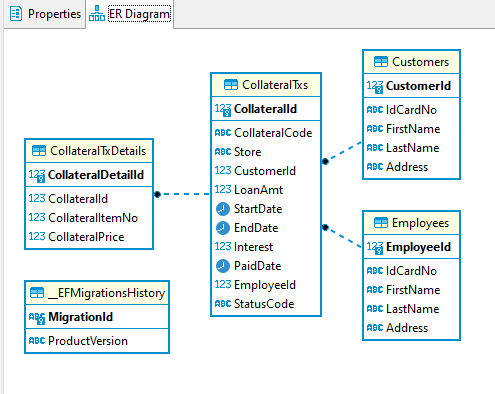
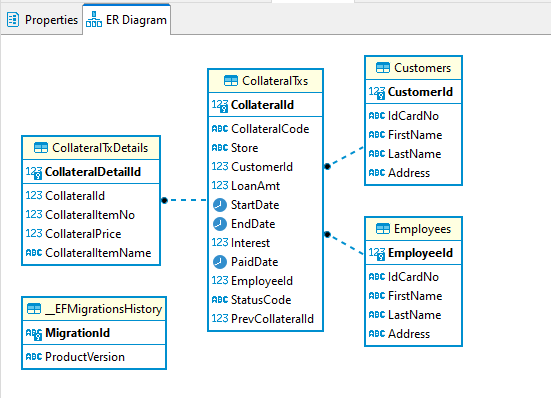
feat(pawn): update api pawn /rollover / redeem

Changed region(s): [[0.0303, 0.1218, 0.9394, 0.9442], [0.0, 0.0, 1.0, 0.0914]]

diff --git a/boj/bojpawnapi/Service/CollateralService.cs b/boj/bojpawnapi/Service/CollateralService.cs
@@ -13,7 +13,7 @@ namespace bojpawnapi.Service
         private readonly string STATUS_PAWN = "PAWN";
         private readonly string STATUS_ROLL = "ROLL_PAWN";   //ต่อดอก
         private readonly string STATUS_REDEEM = "REDEEM";   //ไถ่ถอน
-        private readonly string STATUS_DROP = "DROP";   //หลุดจำนำ
+        private readonly string STATUS_DROP = "DROP";       //หลุดจำนำ-อันนี จริงๆไม่จำเป็นดูสถานะ PAWN ที่ EndDate น้อยกว่าวันปัจจุบันแทนได้
 
         private readonly decimal INTERESTRATE = 3.0M;
 
@@ -68,7 +68,7 @@ namespace bojpawnapi.Service
         public async Task<CollateralTxDTO> AddCollateralTxAsync(CollateralTxDTO pCollateralPayload)
         {
             var CollateralTxEntities = _mapper.Map<CollateralTxEntities>(pCollateralPayload);
-
+            
             _context.CollateralTxs.Add(CollateralTxEntities);
             var result = await _context.SaveChangesAsync();
             if (result > 0)
@@ -92,33 +92,51 @@ namespace bojpawnapi.Service
 
         public async Task<CollateralTxDTO> AddRolloverCollateralTxAsync(CollateralTxDTO pCollateralPayload)
         {
-            try
+            using (var transaction = _context.Database.BeginTransaction())
             {
-                int OldRefId = pCollateralPayload.CollateralId;
-                //ปิดสัญญาเดิม
-                pCollateralPayload.StatusCode = STATUS_ROLL;
-                var result = await UpdateCollateralTxAsync(pCollateralPayload);
-                if (result)
+                try
                 {
-                    //สร้างสัญญาใหม่
-                    CollateralTxDTO newPawn = _mapper.Map<CollateralTxDTO>(pCollateralPayload);
-                    newPawn.PrevCollateralId = OldRefId;
-                    newPawn.CollateralCode = GetCollateralCode();
-                    newPawn.StatusCode = STATUS_PAWN;
-                    newPawn.Interest = CalcInterestRate(pCollateralPayload.LoanAmt, INTERESTRATE);
+                    int OldRefId = pCollateralPayload.CollateralId;
+                    //ปิดสัญญาเดิม
+                    pCollateralPayload.StatusCode = STATUS_ROLL;
+                    var result = await UpdateCollateralTxAsync(pCollateralPayload);
+                    if (result)
+                    {
+                        //สร้างสัญญาใหม่
+                        CollateralTxDTO newPawn = _mapper.Map<CollateralTxDTO>(pCollateralPayload);
+                        newPawn = ResetPawnId(newPawn);
+                        newPawn.PrevCollateralId = OldRefId;
+                        newPawn.CollateralCode = GetCollateralCode();
+                        newPawn.StatusCode = STATUS_PAWN;
+                        newPawn.Interest = CalcInterestRate(pCollateralPayload.LoanAmt, INTERESTRATE);
 
-                    return await AddCollateralTxAsync(newPawn);
+                        CollateralTxDTO newPawnResult = await AddCollateralTxAsync(newPawn);
+                        transaction.Commit();
+                        return newPawnResult;
+                    }
+                    else
+                    {
+                        throw new Exception();
+                    }
                 }
-                else
+                catch(Exception ex)
                 {
-                    throw new Exception();
+                    transaction.Rollback();
+                    //Someone help me
+                    throw ex;
                 }
             }
-            catch(Exception ex)
+        }
+
+        public CollateralTxDTO ResetPawnId(CollateralTxDTO pSource)
+        {
+            pSource.CollateralId = 0;
+            foreach (CollateralTxDetailDTO item in pSource.CollateralDetaills)
             {
-                //Someone help me
-                throw ex;
+                item.CollateralDetailId = 0;
+                item.CollateralId = 0;
             }
+            return pSource;
         }
 
         public async Task<bool> AddRedeemCollateralTxAsync(CollateralTxDTO pCollateralPayload)

diff --git a/boj/bojpawnapi/Migrations/20231127204147_collateralItemName.Designer.cs b/boj/bojpawnapi/Migrations/20231127204147_collateralItemName.Designer.cs
@@ -2,6 +2,7 @@
 using System;
 using Microsoft.EntityFrameworkCore;
 using Microsoft.EntityFrameworkCore.Infrastructure;
+using Microsoft.EntityFrameworkCore.Migrations;
 using Microsoft.EntityFrameworkCore.Storage.ValueConversion;
 using Npgsql.EntityFrameworkCore.PostgreSQL.Metadata;
 using bojpawnapi.DataAccess;
@@ -11,9 +12,11 @@ using bojpawnapi.DataAccess;
 namespace bojpawnapi.Migrations
 {
     [DbContext(typeof(PawnDBContext))]
-    partial class PawnDBContextModelSnapshot : ModelSnapshot
+    [Migration("20231127204147_collateralItemName")]
+    partial class collateralItemName
     {
-        protected override void BuildModel(ModelBuilder modelBuilder)
+        /// <inheritdoc />
+        protected override void BuildTargetModel(ModelBuilder modelBuilder)
         {
 #pragma warning disable 612, 618
             modelBuilder

diff --git a/boj/bojpawnapi/Migrations/20231127204147_collateralItemName.cs b/boj/bojpawnapi/Migrations/20231127204147_collateralItemName.cs
@@ -1,0 +1,29 @@
+using Microsoft.EntityFrameworkCore.Migrations;
+
+#nullable disable
+
+namespace bojpawnapi.Migrations
+{
+    /// <inheritdoc />
+    public partial class collateralItemName : Migration
+    {
+        /// <inheritdoc />
+        protected override void Up(MigrationBuilder migrationBuilder)
+        {
+            migrationBuilder.AddColumn<string>(
+                name: "CollateralItemName",
+                table: "CollateralTxDetails",
+                type: "text",
+                nullable: false,
+                defaultValue: "");
+        }
+
+        /// <inheritdoc />
+        protected override void Down(MigrationBuilder migrationBuilder)
+        {
+            migrationBuilder.DropColumn(
+                name: "CollateralItemName",
+                table: "CollateralTxDetails");
+        }
+    }
+}

diff --git a/boj/bojpawnapi/Entities/CollateralTxDetailEntities.cs b/boj/bojpawnapi/Entities/CollateralTxDetailEntities.cs
@@ -7,6 +7,7 @@ namespace bojpawnapi.Entities
         public int CollateralDetailId {get; set;}
         public int CollateralId {get; set;}
         public int CollateralItemNo {get; set;}
+        public string CollateralItemName {get; set;}
         public decimal CollateralPrice {get; set;}
 
         public CollateralTxEntities CollateralTx {get; set;} 

diff --git a/boj/bojpawnapi/DTO/CollateralTxDetailDTO.cs b/boj/bojpawnapi/DTO/CollateralTxDetailDTO.cs
@@ -7,6 +7,8 @@ namespace bojpawnapi.DTO
         public int CollateralDetailId {get; set;}
         public int CollateralId {get; set;}
         public int CollateralItemNo {get; set;}
+        public string CollateralItemName {get; set;}
+
         public decimal CollateralPrice {get; set;}
     }
 }

diff --git a/boj/bojpawnapi/readme.md b/boj/bojpawnapi/readme.md
@@ -14,6 +14,22 @@ dotnet run --launch-profile https
 https://localhost:7021/swagger
 
 
+# cockroachdb
+
+Web GUI
+
+```bash
+kubectl port-forward service/cockroachdb-public 8080 -n g1dev
+```
+
+Web GUI : https://localhost:8080
+
+Access DB
+
+```bash
+kubectl port-forward service/cockroachdb-public 26257 -n g1dev
+```
+
 # Issues
 
 
@@ -33,7 +49,7 @@ Update database with pending migrations
 dotnet ef database update --project DbExploration.csproj
 
 ถ้ามีแก้ Field
-dotnet ef migrations add firstmigration
+dotnet ef migrations add secodtmigration
 
 ```
 System.InvalidOperationException: Unable to resolve service for type 'bojpawnapi.Service.ICollateralService' while attempting to activate 'bojpawnapi.Controller.CollateralsController'.
@@ -71,4 +87,69 @@ sec-ch-ua-platform: "Windows"
 sec-fetch-site: same-origin
 sec-fetch-mode: cors
 sec-fetch-dest: empty
+```
+
+# PAWN
+
+```
+{
+  "collateralId": 0,
+  "collateralCode": "string",
+  "store": "inventory-1",
+  "prevCollateralId": 0,
+  "customerId": 1,
+  "loanAmt": 3000,
+  "startDate": "2023-11-26T15:26:35.124Z",
+  "endDate": "2023-12-26T15:26:35.124Z",
+  "interest": 0,
+  "paidDate": "2023-12-26T15:26:35.124Z",
+  "employeeId": 1,
+  "statusCode": "string",
+  "collateralDetaills": [
+    {
+      "collateralDetailId": 0,
+      "collateralId": 0,
+      "collateralItemNo": 1,
+      "collateralPrice": 3000
+    }
+  ]
+}
+```
+
+response
+```
+{
+  "code": "S201-003-10",
+  "message": "Pawn created successfully",
+  "description": "The item was added to the database",
+  "timestamp": "2023-11-26T15:28:59.1141251Z",
+  "data": {
+    "collateralId": 1,
+    "collateralCode": "COLL20231126152858",
+    "store": "inventory-1",
+    "prevCollateralId": 0,
+    "customerId": 1,
+    "loanAmt": 3000,
+    "startDate": "2023-11-26T15:26:35.124Z",
+    "endDate": "2023-12-26T15:26:35.124Z",
+    "interest": 90,
+    "paidDate": "2023-12-26T15:26:35.124Z",
+    "employeeId": 1,
+    "statusCode": "PAWN",
+    "collateralDetaills": [
+      {
+        "collateralDetailId": 1,
+        "collateralId": 1,
+        "collateralItemNo": 1,
+        "collateralPrice": 3000
+      }
+    ]
+  }
+}
+```
+
+# Rollover
+
+```
+
 ```
